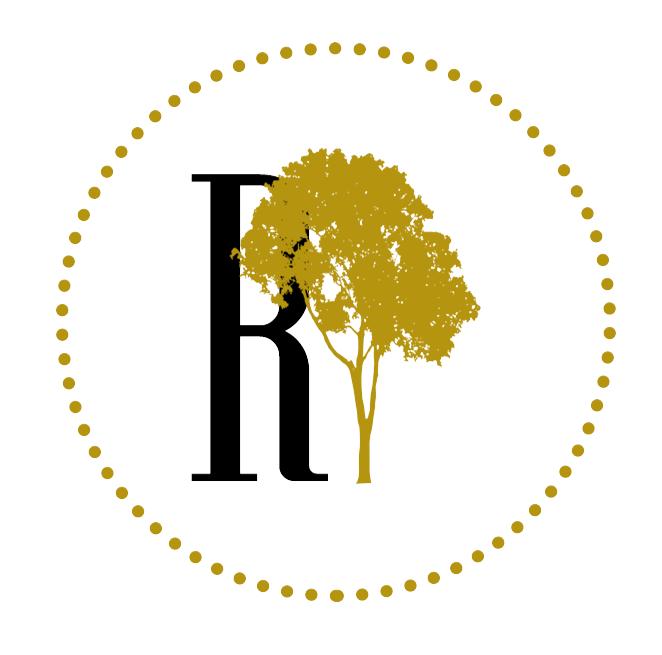
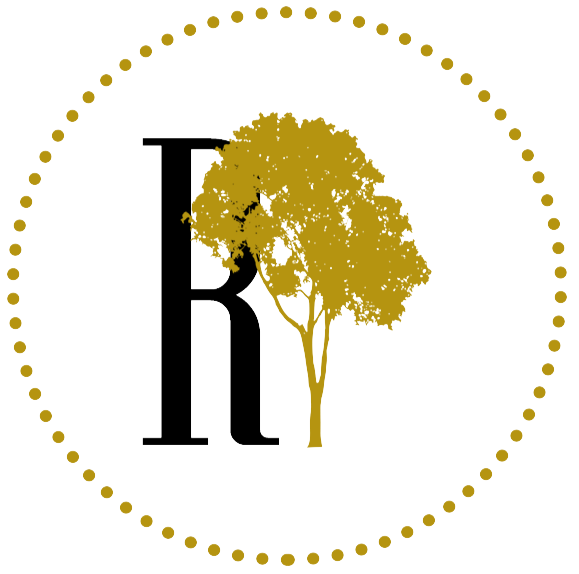
header updates

diff --git a/web/webcss/header2.css b/web/webcss/header2.css
@@ -32,7 +32,8 @@ body{
 nav{
     flex: 1;
     text-align: right;
-    margin-right:50px ;
+    margin-right:20px ;
+    padding-top:12px;
    
 }
 .cart{
@@ -56,10 +57,7 @@ nav ul li a{
     color: white;
     font-size: 13px;
 }
-.navbar form{
-   margin-left: 5px;
 
-}
 .navbar .search input{
     height: 30px;
     width: 200px;
@@ -72,7 +70,8 @@ nav ul li a{
 .search{
 max-width: 400px;
 display: flex;
-margin-right: 40px;
+padding-right: 20px;
+padding-top:12px;
 }
 
 
@@ -151,6 +150,10 @@ margin-right: 40px;
     padding:0 8px 0 3px;
     font-size: 10px;
     
+    }
+    .navbar .search input{
+       display:none;
+        
     }
    
   }

diff --git a/admin/admincss/desheader.css b/admin/admincss/desheader.css
@@ -43,7 +43,7 @@ nav ul li img{
 nav ul li {
     list-style: none;
     display: inline-block;
-    margin-left: 10px;
+    padding-left: 10px;
     font-family: 'poppins',sans-serif;
     
 

diff --git a/admin/signup.php b/admin/signup.php
@@ -29,7 +29,7 @@ if(isset($_POST['submit'])){
 <head>
     <meta charset="UTF-8">
     <meta name="viewport" content="width=device-width, initial-scale=1.0">
-    <title>Rimba</title>
+    <title>Rimba &mdash; HighQuality</title>
     <link rel="stylesheet" href="admincss/signup.css">
 </head>
 <body>
@@ -40,15 +40,15 @@ if(isset($_POST['submit'])){
                         <h2>Signup Here</h2>
                         <form method="post" action="<?php echo htmlspecialchars($_SERVER["PHP_SELF"]);?>">
                             First & last names
-                            <input type="text" name="Flname" placeholder="Enter your First and Last Names" reqired>
+                            <input type="text" name="Flname" placeholder="Enter your First and Last Names" required>
                             User name :
-                            <input type="text" name="User_name" placeholder="Enter your User-Name" reqired>
+                            <input type="text" name="User_name" placeholder="Enter your User-Name" required>
                             Email:   
-                            <input type="email" name="Email" placeholder="Enter your Email" reqired>
+                            <input type="email" name="Email" placeholder="Enter your Email" required>
                             Telphone  :   
-                            <input type="telphone" name="Telphone" placeholder="Enter your Telephone Number" reqired>
+                            <input type="telphone" name="Telphone" placeholder="Enter your Telephone Number" required>
                             Password:
-                            <input type="password" name="Password" placeholder="Enter your Password" reqired>
+                            <input type="password" name="Password" placeholder="Enter your Password" required>
 
                             <button type="submit" class="btn btn2" name ="submit">Signup</button>
                             <a href="desview.php">Back-to Dashboard</a></a>

diff --git a/admin/login.php b/admin/login.php
@@ -8,7 +8,7 @@ include "../connection.php";
 <head>
     <meta charset="UTF-8">
     <meta name="viewport" content="width=device-width, initial-scale=1.0">
-    <title>Rimba</title>
+    <title>Rimba &mdash; HighQuality</title>
     <link rel="stylesheet" href="admincss/login.css">
 </head>
 <body>
@@ -19,9 +19,9 @@ include "../connection.php";
                         <h2>Login Here As Admin</h2>
                         <form method="post" class="contact-form" action="validation.php">
                             User name:
-                            <input type="text" name="User_name" placeholder="Enter your User-Name" reqired>
+                            <input type="text" name="User_name" placeholder="Enter your User-Name" required>
                             Email:   
-                            <input type="email" name="Email" placeholder="Enter your Email" reqired>
+                            <input type="email" name="Email" placeholder="Enter your Email" required>
                             Password:
                             <input type="password" name="Password" placeholder="Enter your Password" reqired>
 

diff --git a/web/header.php b/web/header.php
@@ -5,14 +5,14 @@
     <meta name="viewport" content="width=device-width, initial-scale=1.0">
     <link rel="icon" href="../images/RimbaTradenarkt.png" type="image/x-icon">
     <title>Rimba &mdash; HighQuality</title>
-    <link rel="stylesheet" href="webcss/header.css">
+    <link rel="stylesheet" href="webcss/header2.css">
     
 </head>
 <body>
 
-<div class="menu">
+<div class="menu" style="height: 4rem;">
     <div class="navbar">
-        
+                <a href="#"><img src="../images/RImbaLogo.png" style="width: 9rem;height: 10rem; padding-top:30px;"></a> 
         <nav>
             <ul><b>
                 <li><a href="../admin/login.php">Login</a></li>

diff --git a/admin/desheader.php b/admin/desheader.php
@@ -18,11 +18,11 @@ header('location:login.php');
 </head>
 <body>
 
-<div class="menu">
+<div class="menu" style="height: 4rem;">
 
     <div class="navbar">
-        <a href="#"><img src="../images/official-website-3-48.png"></a> 
-            <nav>
+    <a href="#"><img src="../images/RImbaLogo.png" style="width: 9rem;height: 10rem; padding-top:30px;"></a>
+            <nav style="padding-top: 5px;">
                 <ul>
                     <b><li><a href="logout.php">Logout</a></li></b>  
                 </ul>
